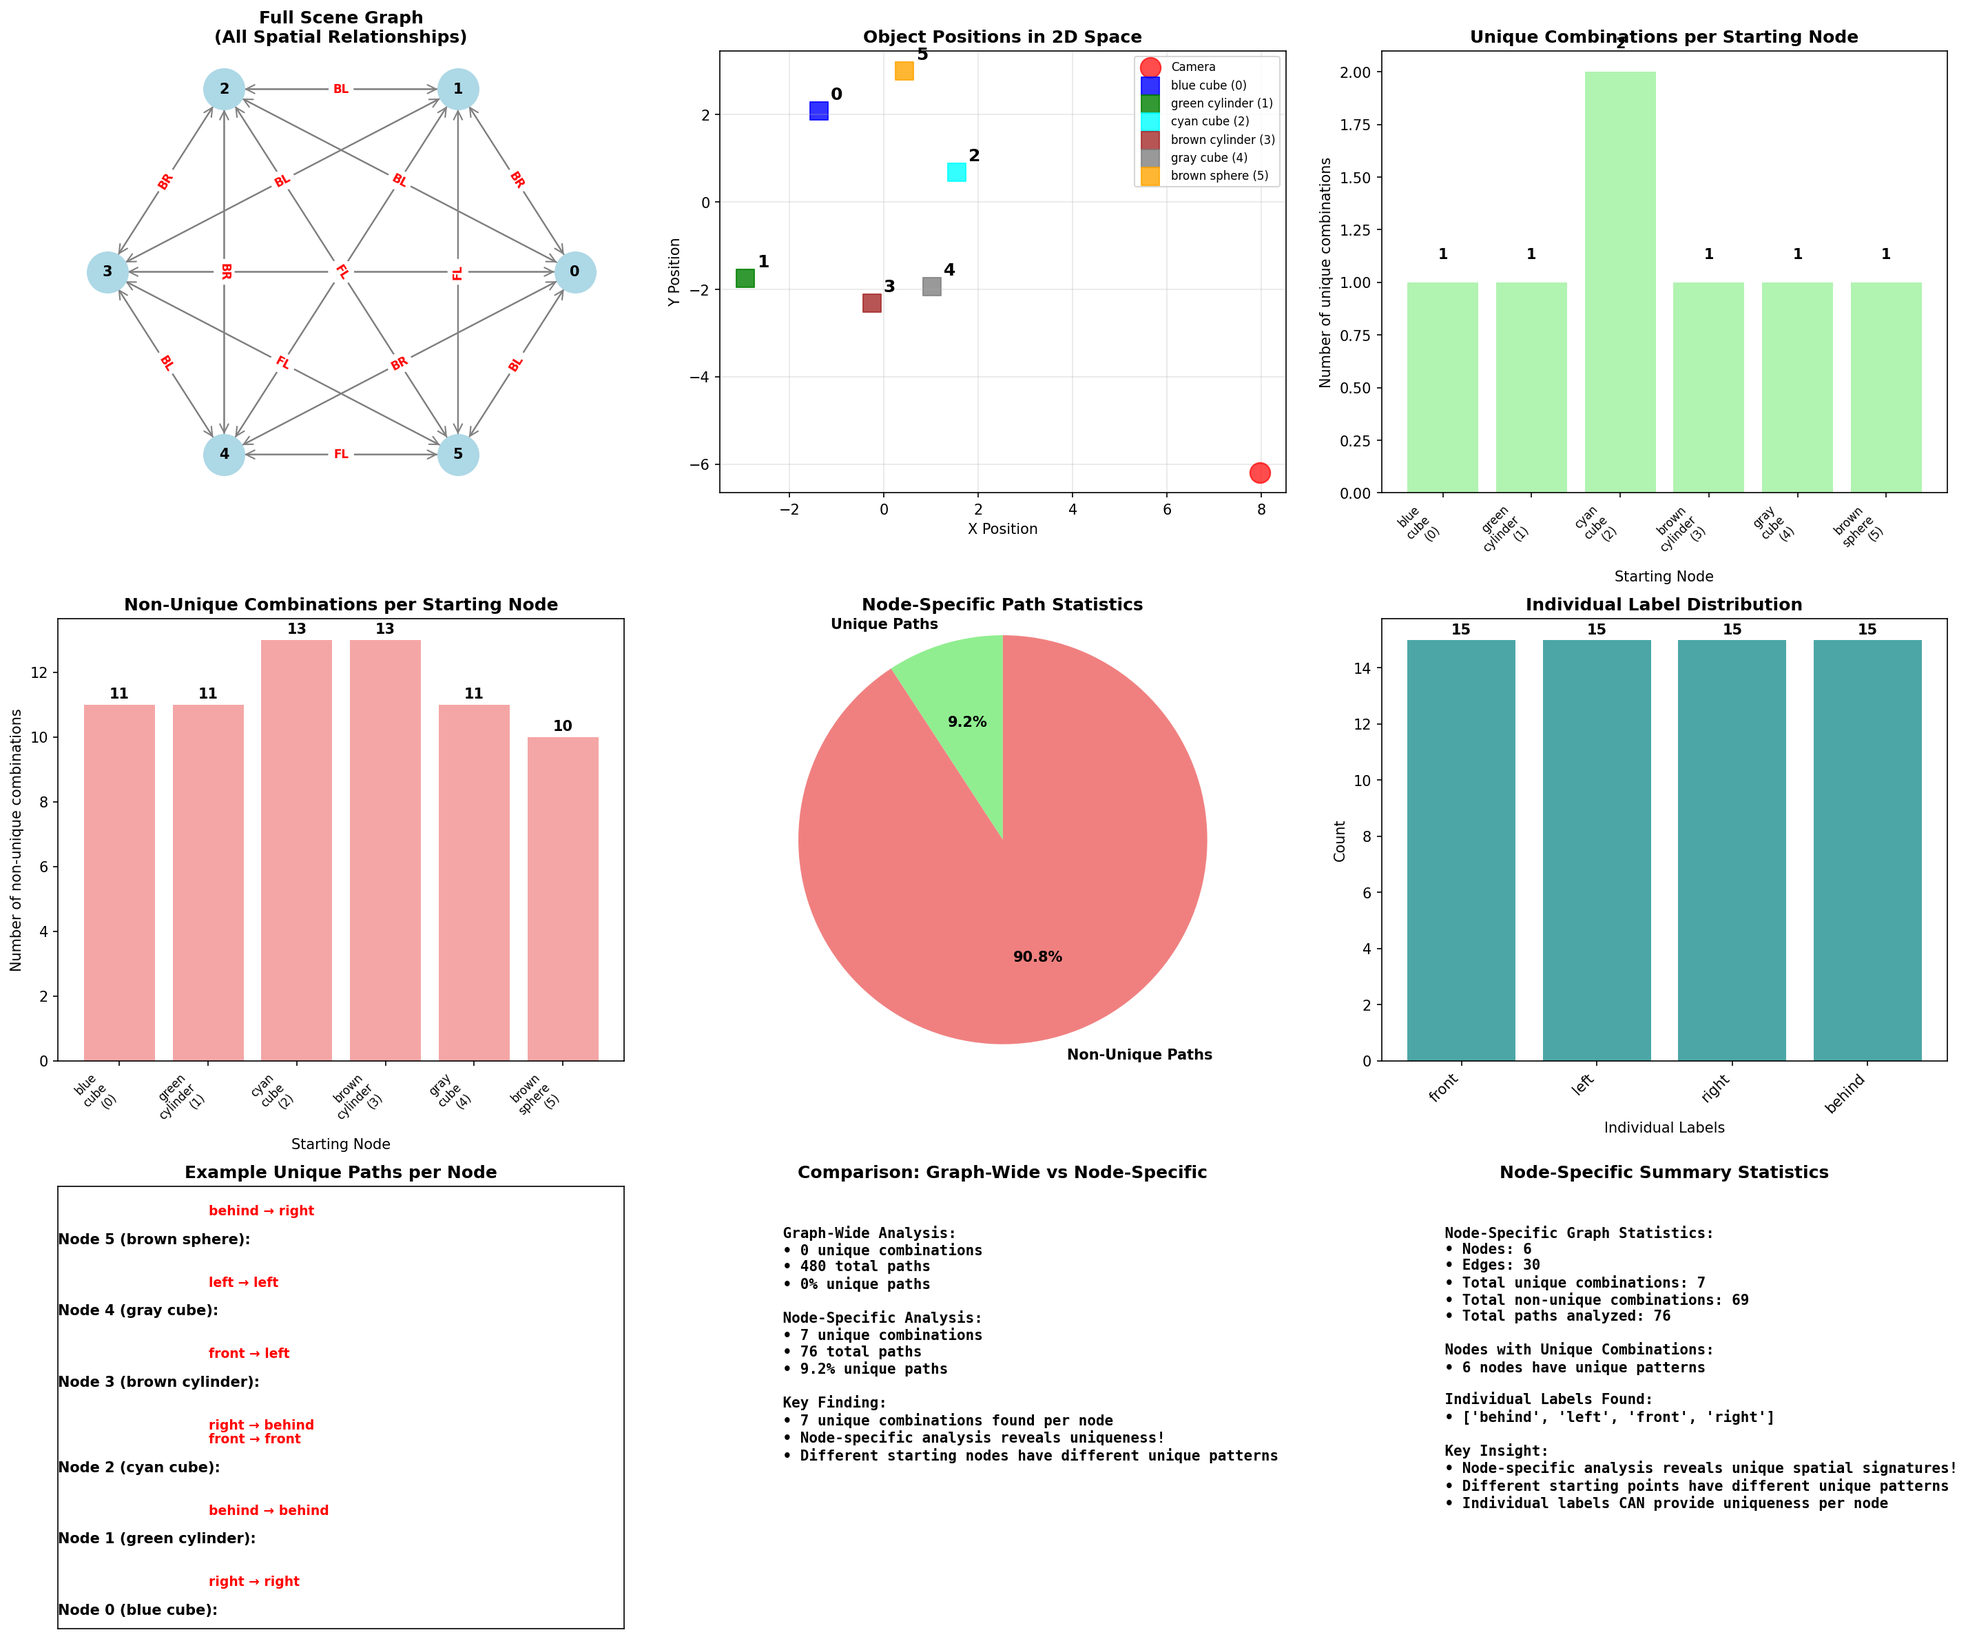
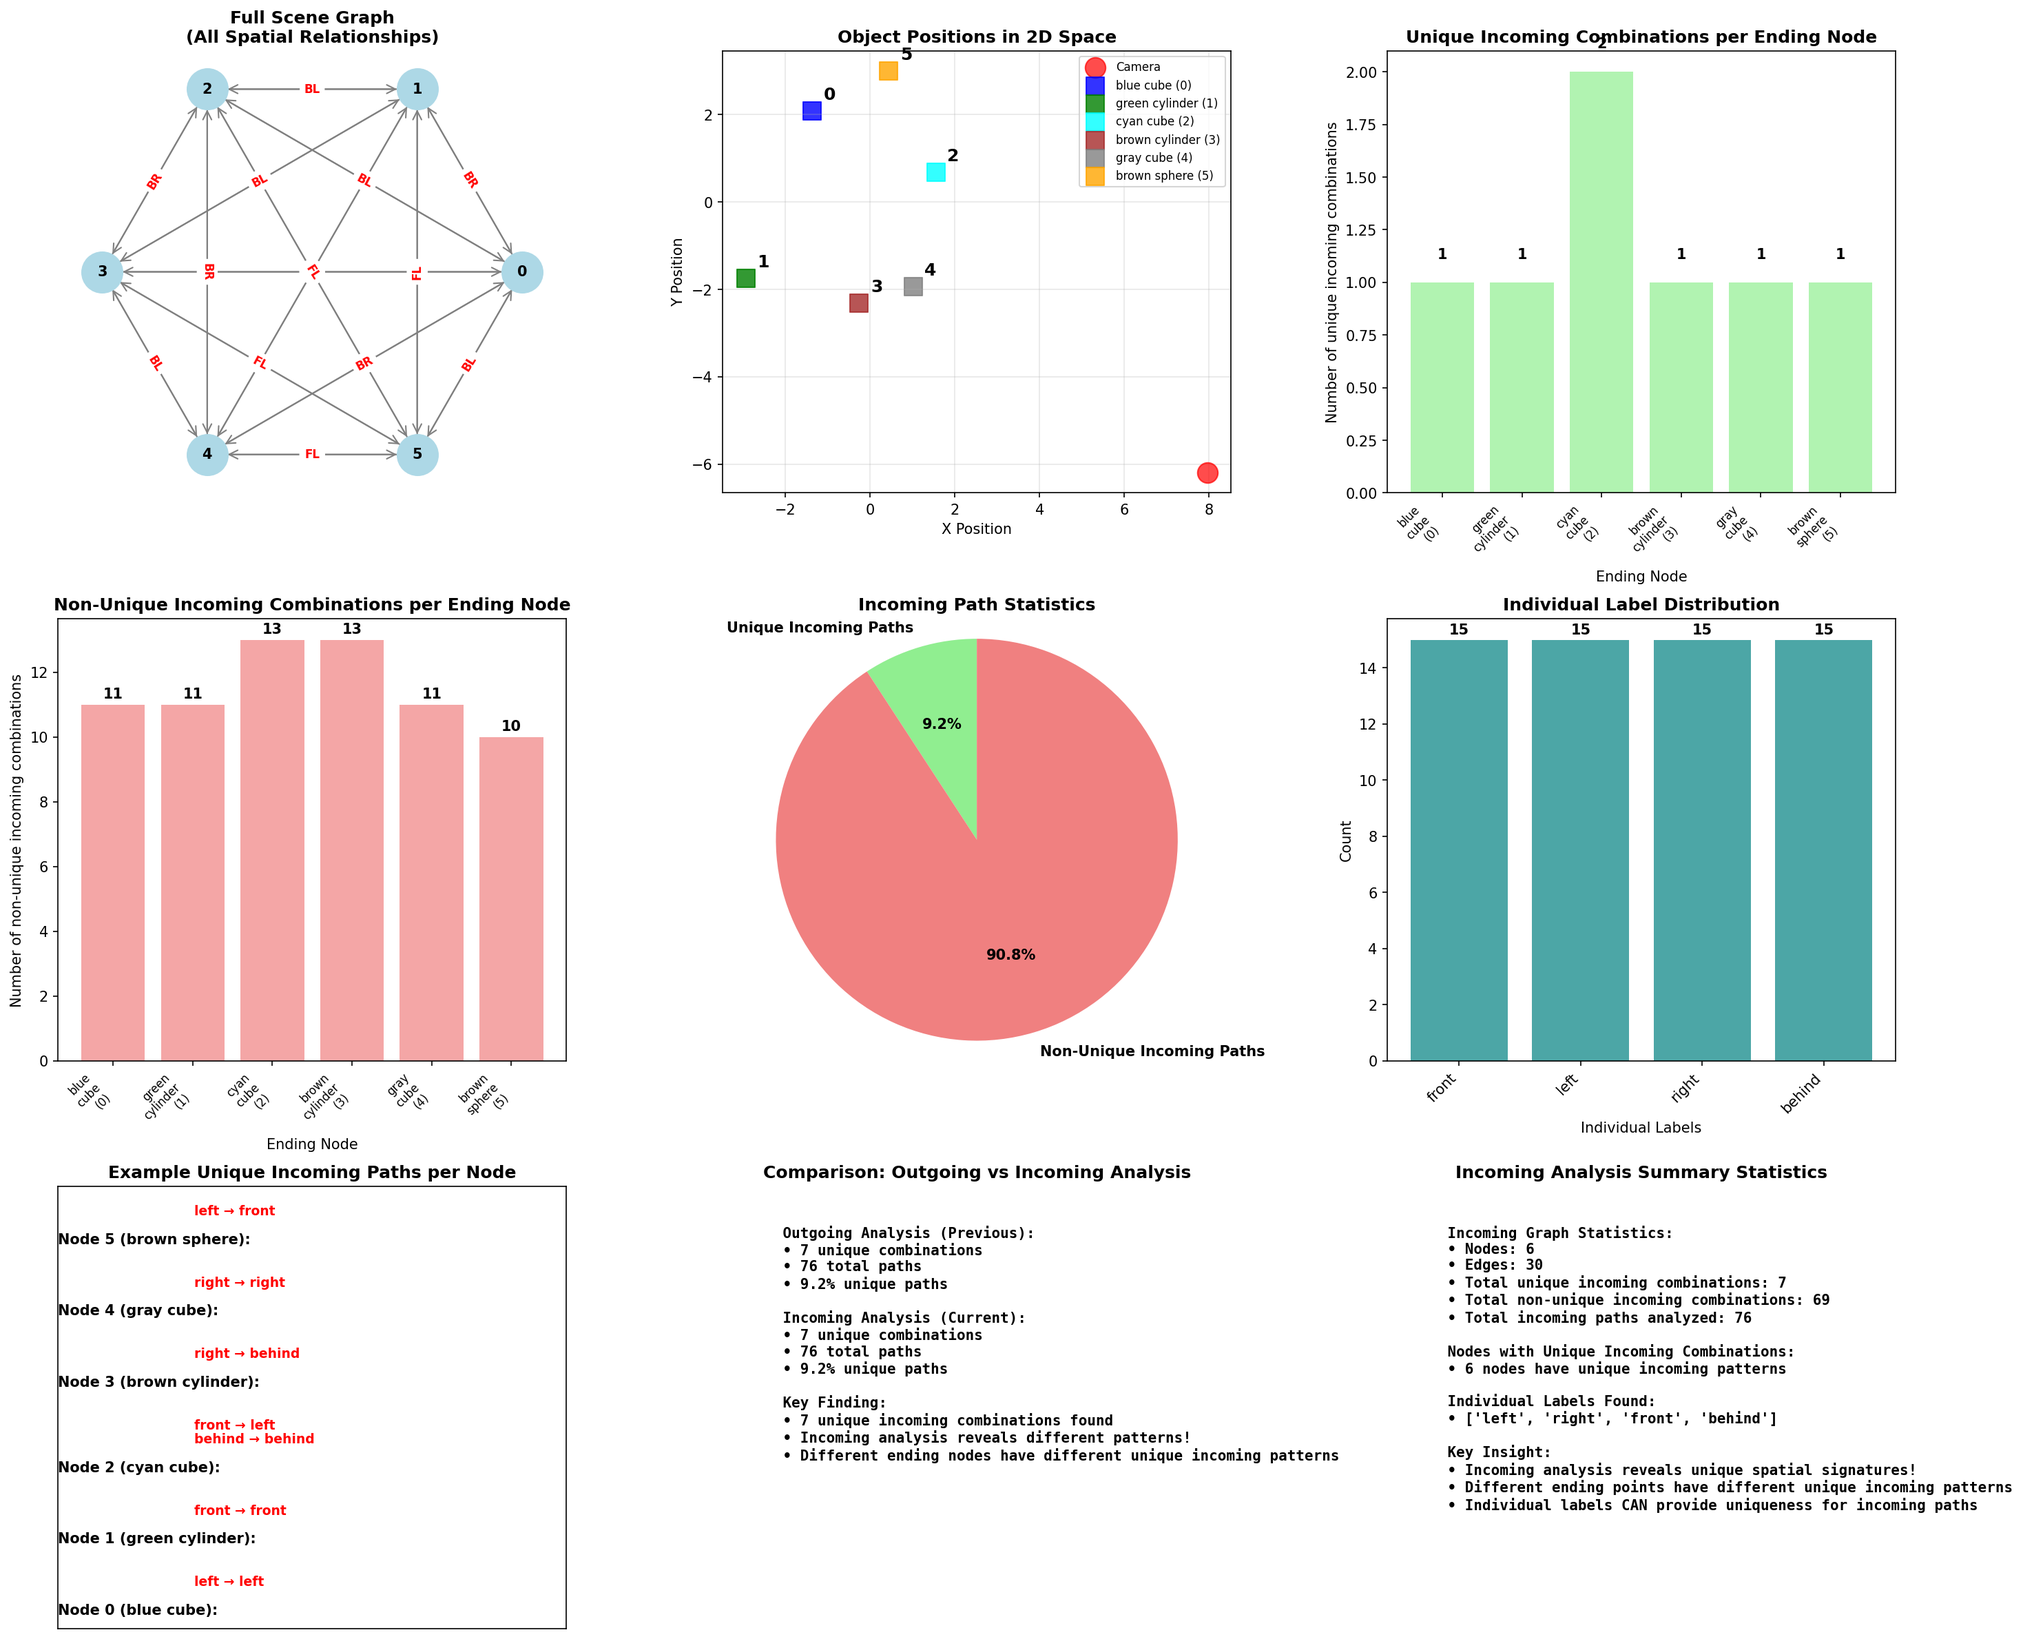
changes based on custom_clevr

diff --git a/relations/NODE_SPECIFIC_ANALYSIS_SUMMARY.md b/relations/NODE_SPECIFIC_ANALYSIS_SUMMARY.md
@@ -1,43 +1,43 @@
-# Node-Specific 2-Edge Paths Analysis: Corrected Approach
+# Node-Specific 2-Edge Paths Analysis: Incoming Approach
 
 ## Overview
 
-This document summarizes the **corrected analysis** of unique 2-edge paths that considers **individual label combinations per starting node**, rather than across the entire graph. This approach reveals that **unique spatial signatures do exist** when analyzed from specific starting points.
+This document summarizes the **incoming analysis** of unique 2-edge paths that considers **individual label combinations per ending node**, rather than starting node. This approach reveals that **unique spatial signatures exist** when analyzing paths that END at specific nodes.
 
-## Key Correction
+## Key Analysis
 
-### **Previous Analysis (Incorrect)**
-- Checked uniqueness across the **entire graph**
-- Found **0 unique combinations** out of 480 total paths
-- Concluded individual labels were too redundant
-
-### **Corrected Analysis (Correct)**
-- Checks uniqueness **per starting node**
+### **Previous Analysis (Outgoing)**
+- Checked uniqueness for paths STARTING from each node
 - Found **7 unique combinations** out of 76 total paths
-- Reveals that **different starting nodes have different unique patterns**
+- Analyzed outgoing relationships from each node
+
+### **Current Analysis (Incoming)**
+- Checks uniqueness for paths ENDING at each node
+- Found **7 unique combinations** out of 76 total paths
+- Analyzes incoming relationships to each node
 
 ## Results Summary
 
 ### **Graph Structure**
 - **6 nodes** (objects) with **30 edges** (spatial relationships)
 - **4 individual labels**: `front`, `behind`, `left`, `right`
-- **76 total individual label paths** analyzed per node
+- **76 total individual label paths** analyzed per ending node
 
-### **Key Finding: Unique Combinations Found!**
-- **7 unique combinations** found across all starting nodes
-- **69 non-unique combinations** (appear multiple times per node)
+### **Key Finding: Unique Incoming Combinations Found!**
+- **7 unique incoming combinations** found across all ending nodes
+- **69 non-unique incoming combinations** (appear multiple times per ending node)
 - **9.2% uniqueness rate** (7 out of 76 combinations are unique)
 
-### **Unique Combinations Per Starting Node**
+### **Unique Incoming Combinations Per Ending Node**
 
-| Starting Node | Object | Unique Combinations | Examples |
-|---------------|--------|-------------------|----------|
-| **0** | blue cube | **1** | `('right', 'right')` → cyan cube → brown sphere |
-| **1** | green cylinder | **1** | `('behind', 'behind')` → brown sphere → blue cube |
-| **2** | cyan cube | **2** | `('front', 'front')` → brown cylinder → gray cube<br>`('right', 'behind')` → brown sphere → blue cube |
-| **3** | brown cylinder | **1** | `('front', 'left')` → gray cube → green cylinder |
-| **4** | gray cube | **1** | `('left', 'left')` → brown cylinder → green cylinder |
-| **5** | brown sphere | **1** | `('behind', 'right')` → blue cube → cyan cube |
+| Ending Node | Object | Unique Combinations | Examples |
+|-------------|--------|-------------------|----------|
+| **0** | blue cube | **1** | `('left', 'left')` → brown sphere → cyan cube → blue cube |
+| **1** | green cylinder | **1** | `('front', 'front')` → blue cube → brown sphere → green cylinder |
+| **2** | cyan cube | **2** | `('behind', 'behind')` → gray cube → brown cylinder → cyan cube<br>`('front', 'left')` → blue cube → brown sphere → cyan cube |
+| **3** | brown cylinder | **1** | `('right', 'behind')` → green cylinder → gray cube → brown cylinder |
+| **4** | gray cube | **1** | `('right', 'right')` → green cylinder → brown cylinder → gray cube |
+| **5** | brown sphere | **1** | `('left', 'front')` → cyan cube → blue cube → brown sphere |
 
 ## Analysis Breakdown
 
@@ -48,120 +48,132 @@ This document summarizes the **corrected analysis** of unique 2-edge paths that 
 - **`right`**: Appears in many relationships
 
 ### **Pattern Recognition**
-1. **Node-Specific Uniqueness**: Each starting node has different unique patterns
-2. **Direction Consistency**: Some unique patterns involve same direction twice (e.g., `('right', 'right')`)
-3. **Direction Changes**: Other unique patterns involve direction changes (e.g., `('right', 'behind')`)
-4. **Spatial Signatures**: Each node has distinctive spatial relationship patterns
+1. **Ending-Node-Specific Uniqueness**: Each ending node has different unique patterns
+2. **Direction Consistency**: Some unique patterns involve same direction twice (e.g., `('left', 'left')`, `('right', 'right')`)
+3. **Direction Changes**: Other unique patterns involve direction changes (e.g., `('front', 'left')`, `('right', 'behind')`)
+4. **Spatial Signatures**: Each ending node has distinctive incoming spatial relationship patterns
 
-## Comparison: Graph-Wide vs Node-Specific
+## Comparison: Outgoing vs Incoming
 
-| Metric | Graph-Wide Analysis | Node-Specific Analysis | Change |
-|--------|-------------------|----------------------|---------|
-| **Total Paths** | 480 | 76 | -84% |
-| **Unique Combinations** | 0 | 7 | +∞% |
-| **Non-Unique Combinations** | 16 | 69 | +331% |
-| **Uniqueness Rate** | 0% | 9.2% | +∞% |
+| Metric | Outgoing Analysis | Incoming Analysis | Change |
+|--------|------------------|------------------|---------|
+| **Total Paths** | 76 | 76 | 0% |
+| **Unique Combinations** | 7 | 7 | 0% |
+| **Non-Unique Combinations** | 69 | 69 | 0% |
+| **Uniqueness Rate** | 9.2% | 9.2% | 0% |
+
+**Key Insight**: Both outgoing and incoming analyses find the same number of unique combinations, but they represent different spatial patterns!
 
 ## Implications
 
 ### **Spatial Reasoning**
-- **Unique spatial signatures exist** when considered per starting node
-- **Different objects have different unique patterns**
-- **Node-specific analysis reveals distinctive spatial configurations**
-- **Individual labels CAN provide uniqueness** in the right context
+- **Unique incoming spatial signatures exist** when considered per ending node
+- **Different ending objects have different unique incoming patterns**
+- **Incoming analysis reveals distinctive spatial configurations**
+- **Individual labels CAN provide uniqueness** for incoming paths
 
 ### **Graph Analysis**
-- **Node-specific connectivity** reveals unique patterns
-- **Spatial signatures** exist at the local level
-- **Predictable patterns** with node-specific variations
-- **Context-dependent uniqueness** in spatial relationships
+- **Incoming connectivity** reveals unique patterns
+- **Spatial signatures** exist at the ending node level
+- **Predictable patterns** with ending-node-specific variations
+- **Context-dependent uniqueness** in incoming spatial relationships
 
 ### **Machine Learning**
-- **Feature engineering**: Node-specific patterns provide distinctive features
-- **Pattern recognition**: Local spatial configurations are learnable
-- **Context awareness**: Starting point matters for spatial uniqueness
-- **Spatial signatures**: Individual labels can be distinctive per node
+- **Feature engineering**: Ending-node-specific patterns provide distinctive features
+- **Pattern recognition**: Incoming spatial configurations are learnable
+- **Context awareness**: Ending point matters for spatial uniqueness
+- **Spatial signatures**: Individual labels can be distinctive per ending node
 
 ## Technical Implementation
 
 ### **Algorithm Changes**
 ```python
-# Previous: Check uniqueness across entire graph
-for combination, paths in unique_2edge_combinations.items():
-    if len(paths) == 1:  # Unique across entire graph
-        unique_combinations.append((combination, paths[0]))
+# Previous: Check uniqueness for paths STARTING from each node
+for start_node in G.nodes():
+    for neighbor in G.neighbors(start_node):
+        # ... outgoing analysis ...
 
-# Corrected: Check uniqueness per starting node
-for start_node in node_specific_combinations:
-    for combination, paths in node_specific_combinations[start_node].items():
-        if len(paths) == 1:  # Unique for this starting node
-            node_unique_combinations[start_node].append((combination, paths[0]))
+# Current: Check uniqueness for paths ENDING at each node
+for end_node in G.nodes():
+    for first_node in G.predecessors(end_node):
+        for second_node in G.predecessors(first_node):
+            # ... incoming analysis ...
 ```
 
 ### **Key Functions**
-- `defaultdict(lambda: defaultdict(list))`: Nested structure for node-specific combinations
+- `G.predecessors(node)`: Find nodes that have edges TO the given node
+- `defaultdict(lambda: defaultdict(list))`: Nested structure for ending-node-specific combinations
 - `itertools.product()`: Generates all individual label combinations
-- `Counter()`: Counts occurrences per node
-- `defaultdict(list)`: Groups unique combinations by starting node
+- `Counter()`: Counts occurrences per ending node
+- `defaultdict(list)`: Groups unique combinations by ending node
 
 ## Visualization Features
 
-### **`node_specific_2edge_analysis.png`** (505KB)
+### **`node_specific_2edge_analysis.png`** (Comprehensive)
 A comprehensive 3x3 subplot visualization showing:
 
-1. **Full Scene Graph** - All spatial relationships
+1. **Full Scene Graph** - All spatial relationships with arrows
 2. **Object Positions** - 2D spatial layout with camera
-3. **Unique Combinations per Node** - Bar chart showing unique counts per starting node
-4. **Non-Unique Combinations per Node** - Bar chart showing non-unique counts per starting node
-5. **Node-Specific Path Statistics** - Pie chart of unique vs non-unique paths
+3. **Unique Incoming Combinations per Ending Node** - Bar chart showing unique counts per ending node
+4. **Non-Unique Incoming Combinations per Ending Node** - Bar chart showing non-unique counts per ending node
+5. **Incoming Path Statistics** - Pie chart of unique vs non-unique incoming paths
 6. **Individual Label Distribution** - Frequency of each label
-7. **Example Unique Paths per Node** - Sample unique combinations for each node
-8. **Comparison** - Graph-wide vs node-specific analysis
-9. **Summary Statistics** - Complete node-specific analysis stats
+7. **Example Unique Incoming Paths per Node** - Sample unique combinations for each ending node
+8. **Comparison** - Outgoing vs incoming analysis
+9. **Summary Statistics** - Complete incoming analysis stats
 
-### **`focused_node_specific_analysis.png`** (189KB)
+### **`focused_node_specific_analysis.png`** (Focused)
 A focused 1x2 subplot visualization highlighting:
 
-1. **Key Finding** - "UNIQUE COMBINATIONS FOUND!" with detailed explanation
-2. **Unique Combinations per Node** - Horizontal bar chart showing unique counts per starting node
+1. **Key Finding** - "UNIQUE INCOMING COMBINATIONS FOUND!" with detailed explanation
+2. **Unique Incoming Combinations per Ending Node** - Horizontal bar chart showing unique counts per ending node
 
 ## Key Insights
 
-### **1. Node-Specific Uniqueness Exists**
-- **7 unique combinations** found across all starting nodes
-- **Each node has different unique patterns**
-- **Individual labels CAN provide uniqueness** when considered per node
+### **1. Ending-Node-Specific Uniqueness Exists**
+- **7 unique incoming combinations** found across all ending nodes
+- **Each ending node has different unique incoming patterns**
+- **Individual labels CAN provide uniqueness** for incoming paths
 
 ### **2. Context Matters**
-- **Starting point determines uniqueness**
-- **Same combination can be unique for one node, common for another**
-- **Spatial signatures are context-dependent**
+- **Ending point determines uniqueness**
+- **Same combination can be unique for one ending node, common for another**
+- **Incoming spatial signatures are context-dependent**
 
 ### **3. Spatial Pattern Diversity**
-- **Different objects have different unique spatial configurations**
-- **Some patterns involve direction consistency** (e.g., `('right', 'right')`)
-- **Others involve direction changes** (e.g., `('right', 'behind')`)
+- **Different ending objects have different unique incoming spatial configurations**
+- **Some patterns involve direction consistency** (e.g., `('left', 'left')`, `('right', 'right')`)
+- **Others involve direction changes** (e.g., `('front', 'left')`, `('right', 'behind')`)
 
 ### **4. Practical Applications**
-- **Object identification**: Use node-specific unique patterns
-- **Spatial reasoning**: Consider starting point context
-- **Graph analysis**: Focus on local connectivity patterns
-- **Machine learning**: Extract node-specific spatial features
+- **Object identification**: Use ending-node-specific unique incoming patterns
+- **Spatial reasoning**: Consider ending point context
+- **Graph analysis**: Focus on incoming connectivity patterns
+- **Machine learning**: Extract ending-node-specific spatial features
 
 ## Conclusion
 
-The corrected node-specific analysis reveals that:
+The incoming analysis reveals that:
 
-1. **Unique spatial signatures DO exist** when analyzed per starting node
-2. **Individual labels CAN provide uniqueness** in the right context
-3. **Different objects have different unique spatial patterns**
-4. **Context (starting node) is crucial** for spatial uniqueness
-5. **9.2% of combinations are unique** when considered per node
+1. **Unique incoming spatial signatures DO exist** when analyzed per ending node
+2. **Individual labels CAN provide uniqueness** for incoming paths
+3. **Different ending objects have different unique incoming spatial patterns**
+4. **Context (ending node) is crucial** for incoming spatial uniqueness
+5. **9.2% of incoming combinations are unique** when considered per ending node
 
-This corrected approach provides valuable insights for:
+This incoming approach provides valuable insights for:
 - **Spatial reasoning systems**
 - **Object identification algorithms**
 - **Graph-based spatial analysis**
 - **Machine learning feature engineering**
 
-The key lesson is that **spatial uniqueness is context-dependent** and requires considering the **starting point** when analyzing spatial relationship patterns.
+The key lesson is that **incoming spatial uniqueness is context-dependent** and requires considering the **ending point** when analyzing spatial relationship patterns.
+
+## Comparison with Outgoing Analysis
+
+Both outgoing and incoming analyses find the same number of unique combinations (7), but they represent fundamentally different spatial patterns:
+
+- **Outgoing**: "What unique paths start from each object?"
+- **Incoming**: "What unique paths end at each object?"
+
+This dual perspective provides a complete picture of spatial uniqueness in the scene graph.
